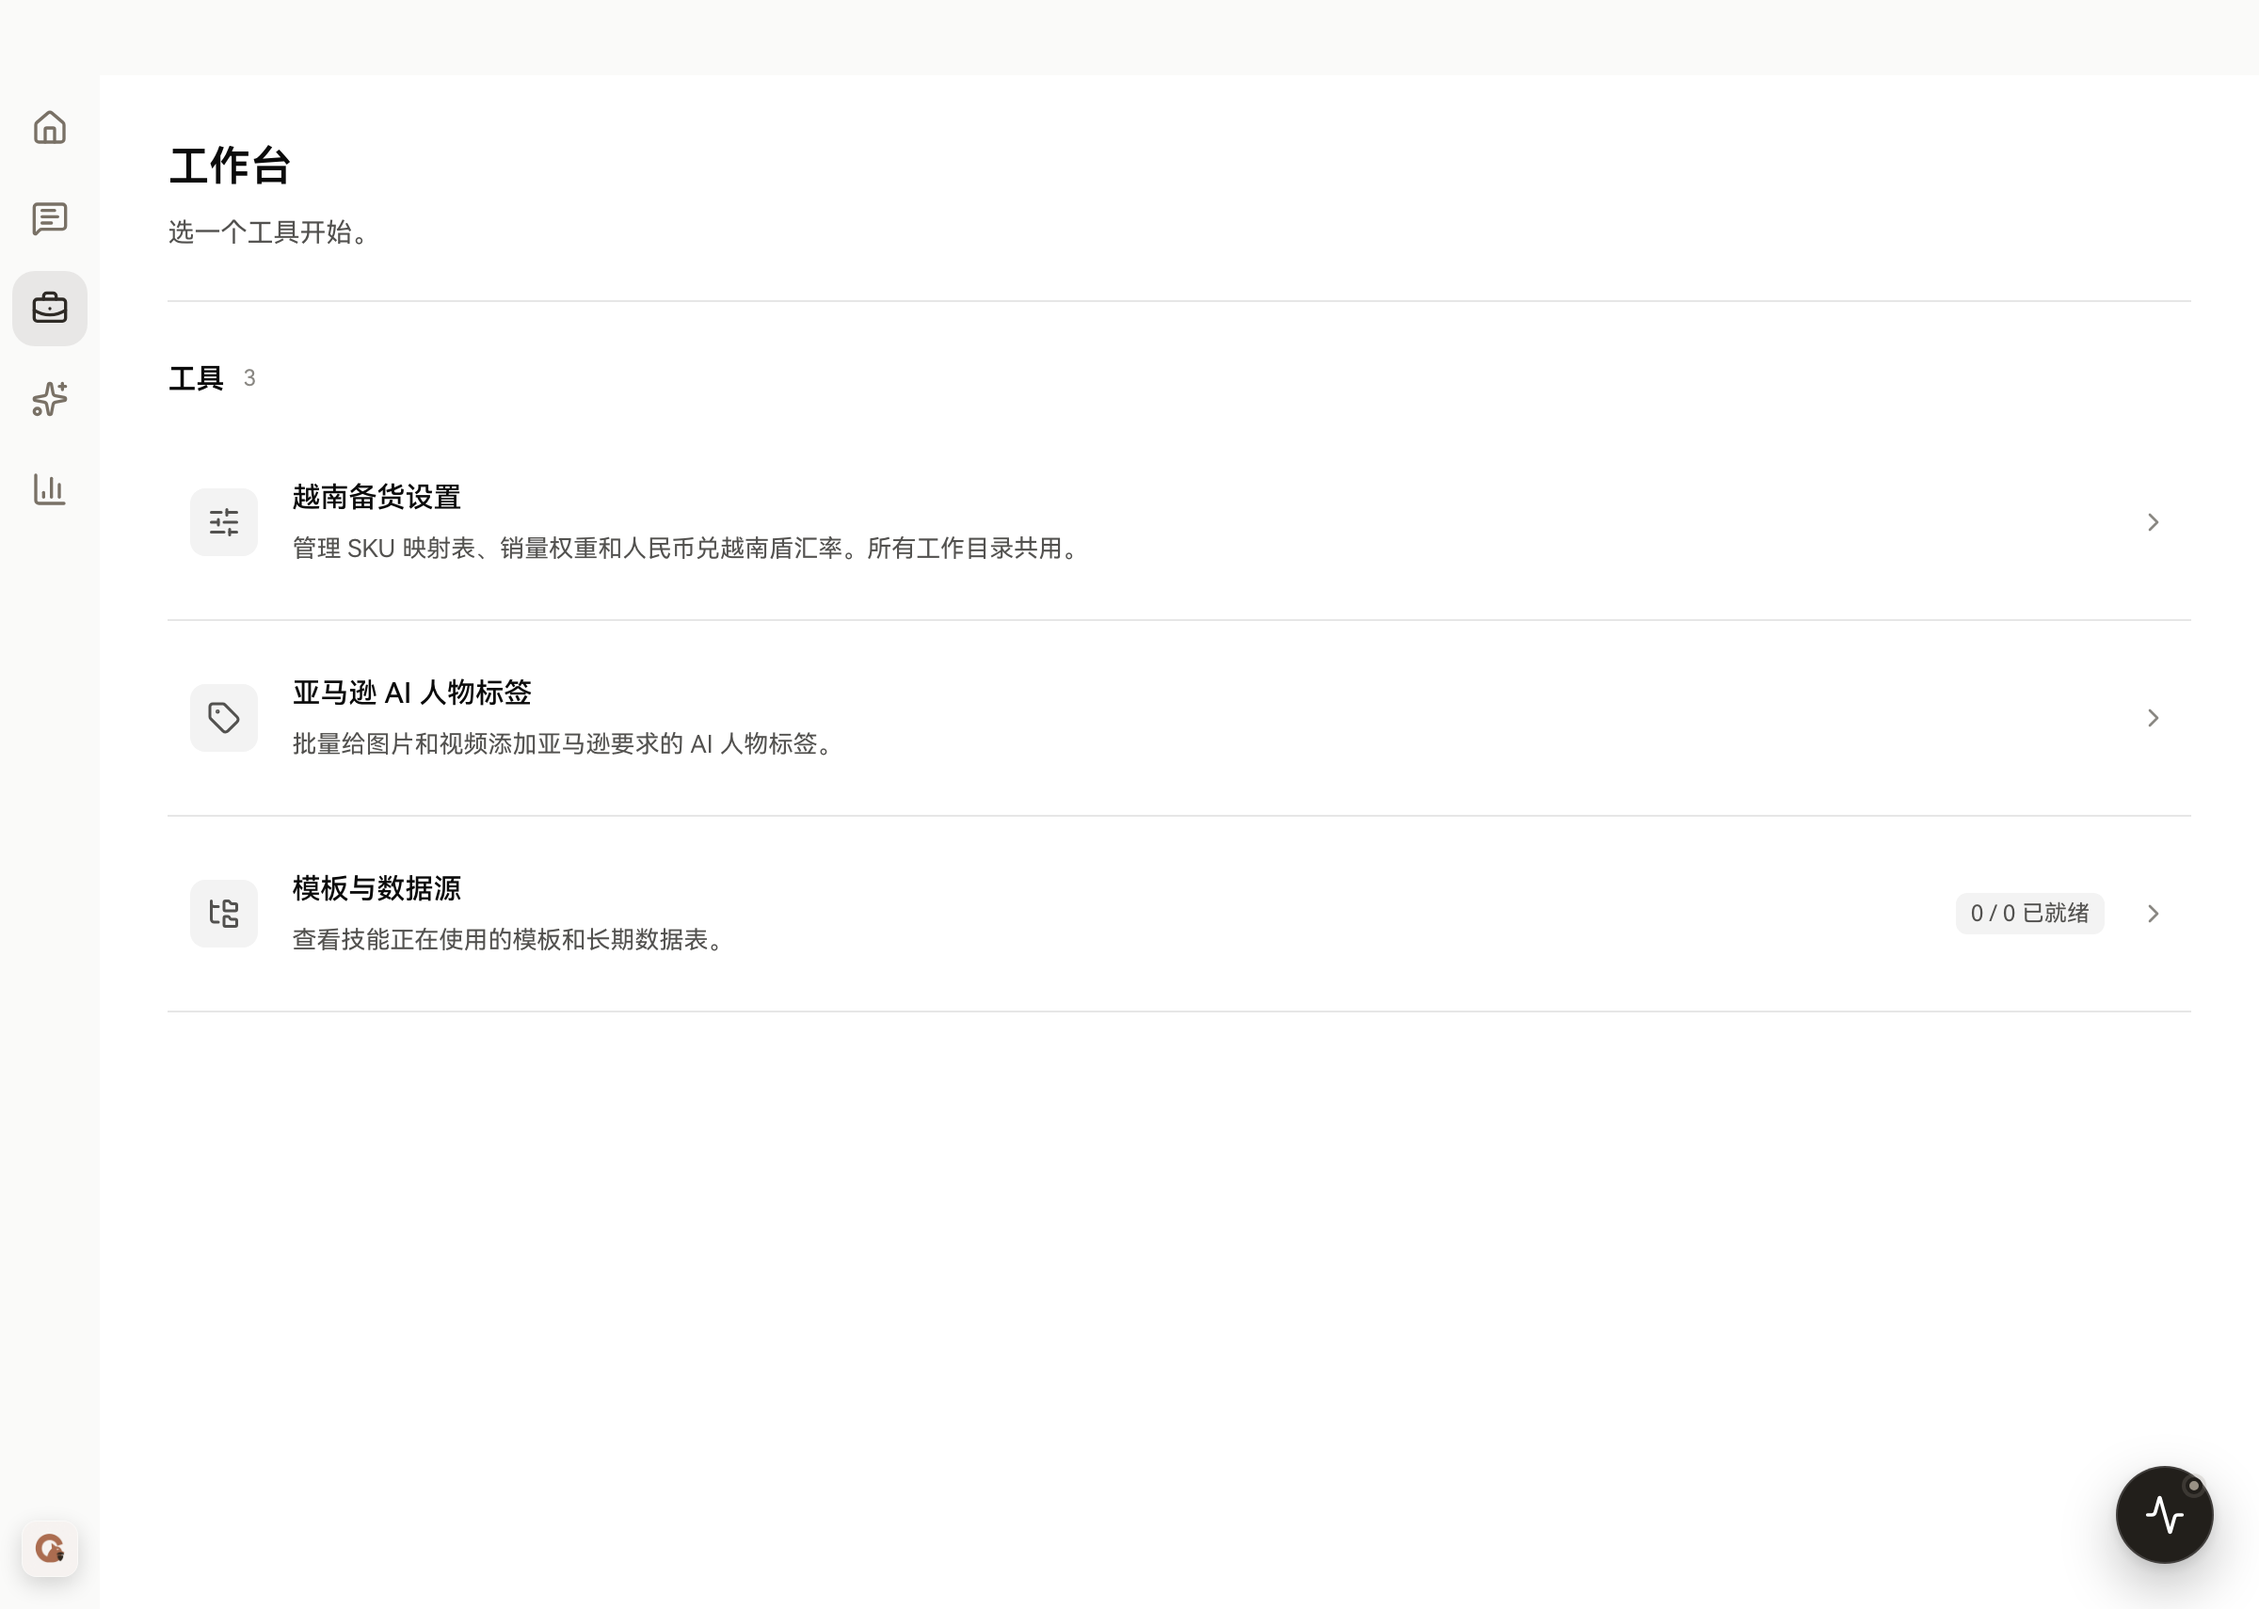
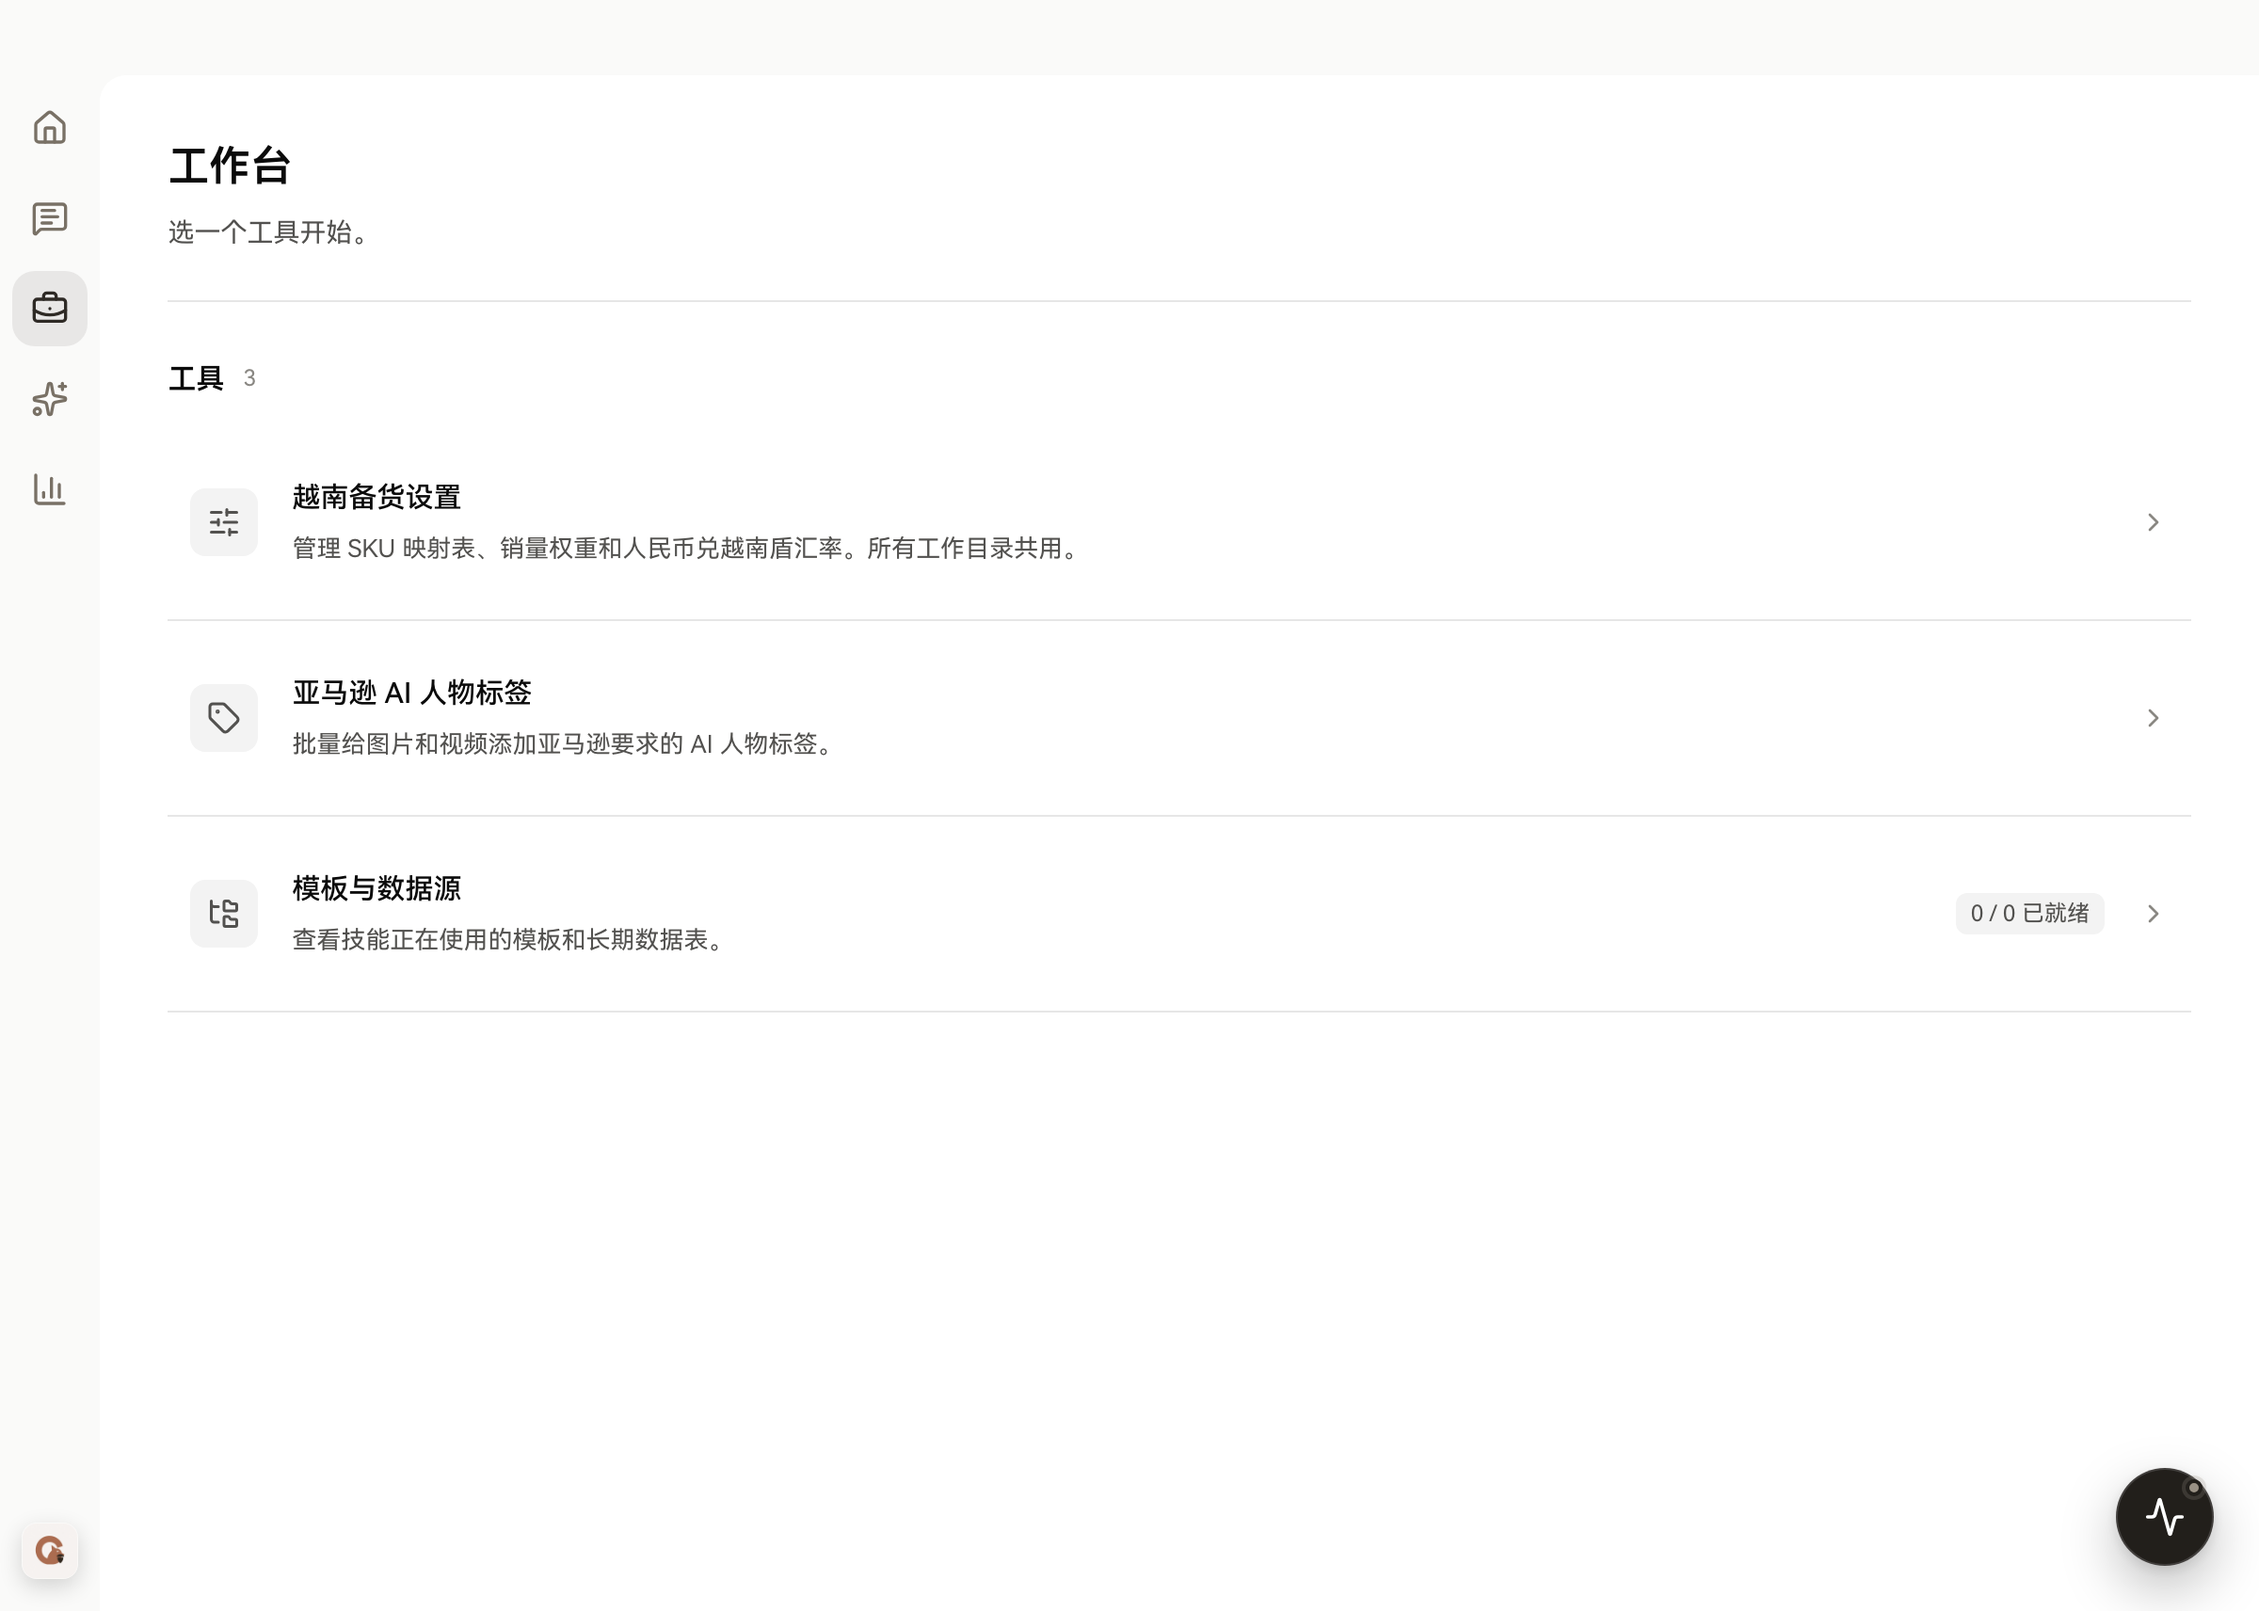
fix: align standalone page corners with the home sidebar

diff --git a/apps/dashboard/src/styles.css b/apps/dashboard/src/styles.css
@@ -2057,6 +2057,7 @@ button {
   --app-navigation-width: 53.2px;
   --app-titlebar-height: 41.8px;
   --app-sidebar-width: 256px;
+  --app-panel-radius: 14px;
   --sidebar-control-left: calc(var(--app-navigation-width) + 8px);
   --navigation-bg: var(--bg);
   --sidebar-bg: var(--bg);
@@ -2086,6 +2087,11 @@ button {
 .app-shell.sidebar-collapsed,
 .app-shell.sidebar-unavailable {
   grid-template-columns: var(--app-navigation-width) 0 minmax(0, 1fr);
+}
+
+/* When the session list is absent, the page owns the same leading corner. */
+.app-shell.sidebar-unavailable > .main-panel > .content-panel {
+  border-top-left-radius: var(--app-panel-radius);
 }
 
 /* Keep the list mounted for scroll/search state, but remove all off-page chrome. */
@@ -2263,7 +2269,7 @@ button {
   margin-top: var(--app-titlebar-height);
   padding-top: 8px;
   border-top: 1px solid var(--sidebar-border);
-  border-radius: 14px 0 0 0;
+  border-radius: var(--app-panel-radius) 0 0 0;
   opacity: 1;
   transform: translateX(0);
   visibility: visible;

diff --git a/docs/design/cds/examples/activity-workbench.md b/docs/design/cds/examples/activity-workbench.md
@@ -31,3 +31,5 @@
 - [Electron 行为检查](../../../../apps/dashboard/test/behavior/overview-pages.cjs)：范围查询、柱状／折线、键盘、三组明细、三个工作台入口、亮暗与窄屏溢出。
 
 本次主题作用域新增 `.activity-theme` 与 `.workbench-theme`；后者只用于工作台目录。工具内部流程保持既有实现。原始资料和此前的色彩／样式快照仍保持归档时内容，不自动覆盖为本次版本。
+
+没有会话侧栏的页面，内容容器左上角共用主页侧栏的 14px 圆角变量；这是 LXE 外壳一致性规则，不是 CDS 对所有页面规定的固定圆角。
